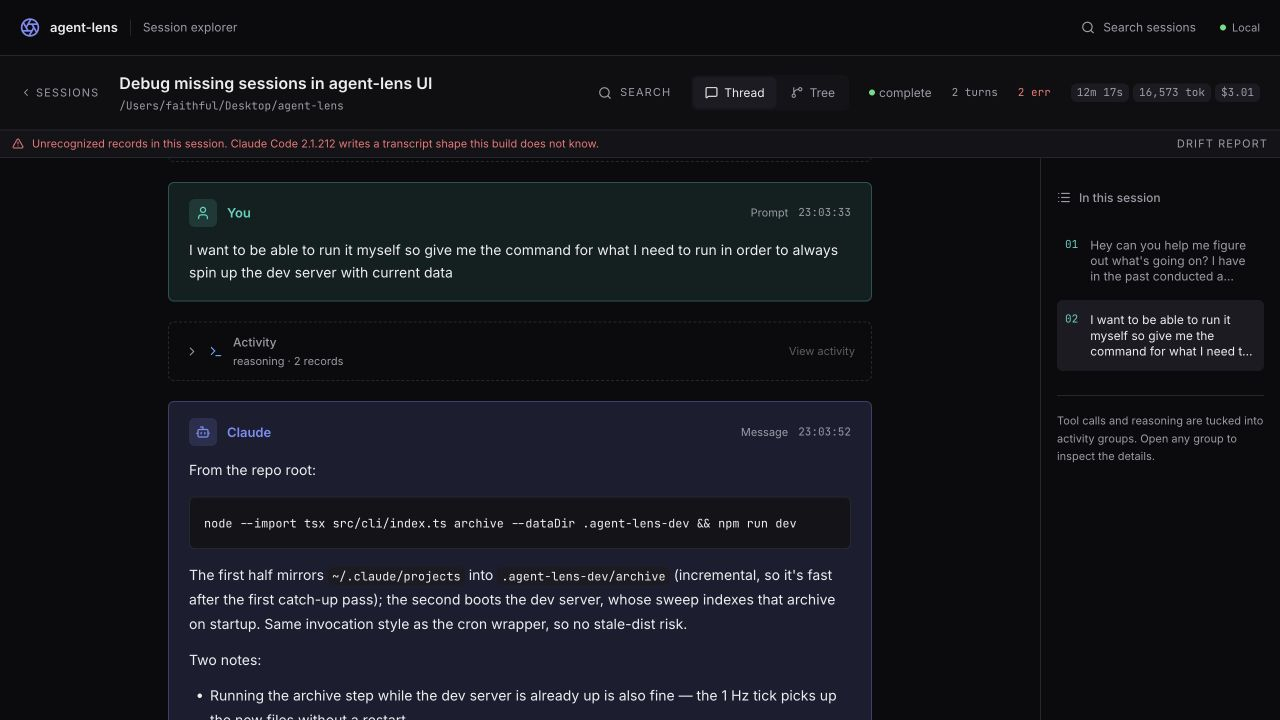
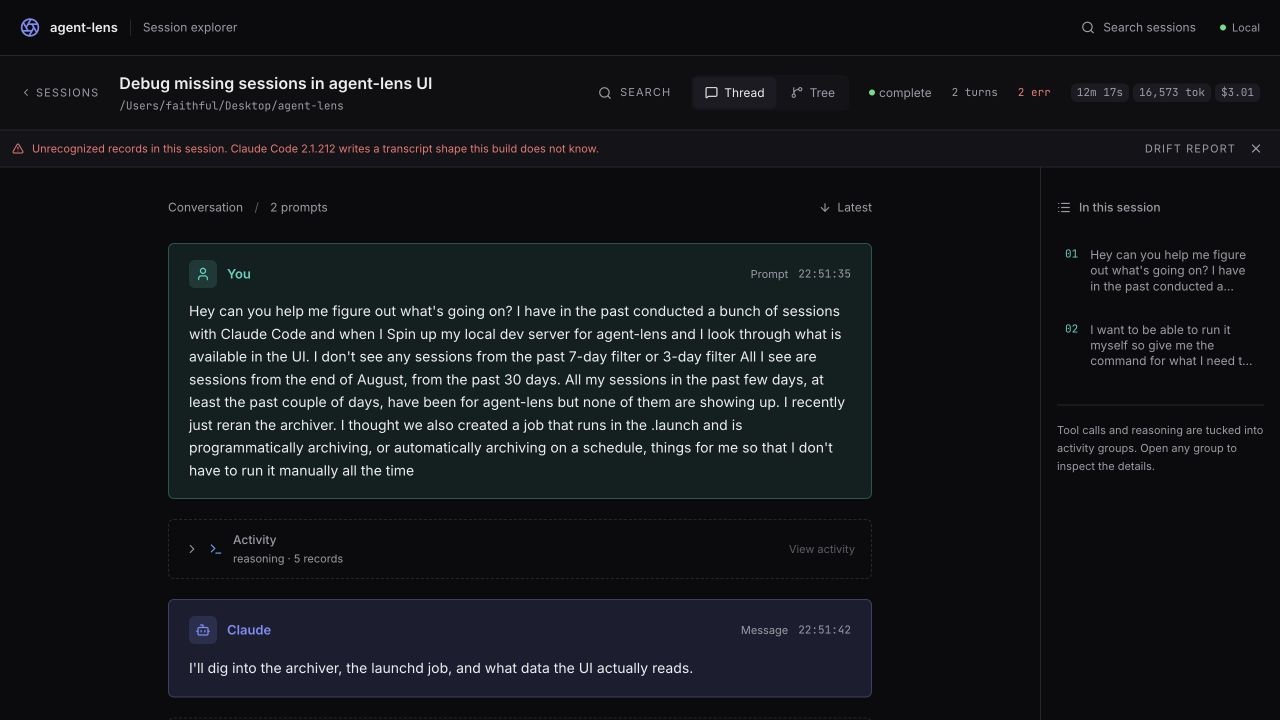
feat(ui): let users dismiss session notices until reload

diff --git a/ui/src/components/session/__tests__/drift-banner.test.tsx b/ui/src/components/session/__tests__/drift-banner.test.tsx
@@ -11,9 +11,12 @@ import { DriftBanner } from '../DriftBanner';
 
 describe('the drift banner raises on the row it is given (AC2)', () => {
   it('carries the slot the render gate drives, the copy, and the link to the aggregate', () => {
-    const markup = renderToStaticMarkup(<DriftBanner hasDrift harnessVersion="2.2.0" />);
+    const markup = renderToStaticMarkup(
+      <DriftBanner sessionId="session-a" hasDrift harnessVersion="2.2.0" />,
+    );
 
     expect(markup).toContain('data-slot="drift-banner"');
+    expect(markup).toContain('aria-label="Dismiss unrecognized records notice"');
     expect(markup, 'louder than the truncation strip next door').toContain('role="alert"');
     expect(markup).toContain('Unrecognized records in this session.');
     expect(markup, 'the culprit release is the whole point of the alarm').toContain('2.2.0');
@@ -23,7 +26,9 @@ describe('the drift banner raises on the row it is given (AC2)', () => {
   });
 
   it('links to the aggregate even when the transcript named no version', () => {
-    const markup = renderToStaticMarkup(<DriftBanner hasDrift harnessVersion={null} />);
+    const markup = renderToStaticMarkup(
+      <DriftBanner sessionId="session-a" hasDrift harnessVersion={null} />,
+    );
     expect(markup).toContain('href="/api/drift"');
     expect(markup).not.toContain('null');
   });
@@ -34,9 +39,15 @@ describe('the drift banner is silent on a clean session (AC3)', () => {
     // Total, on `components.test.tsx:105-112`'s shape: an empty string is the
     // only reading that proves no strip was drawn. A "does not contain the
     // copy" assertion would pass over an empty bordered box.
-    expect(renderToStaticMarkup(<DriftBanner hasDrift={false} harnessVersion="2.1.212" />)).toBe(
-      '',
-    );
-    expect(renderToStaticMarkup(<DriftBanner hasDrift={false} harnessVersion={null} />)).toBe('');
+    expect(
+      renderToStaticMarkup(
+        <DriftBanner sessionId="session-a" hasDrift={false} harnessVersion="2.1.212" />,
+      ),
+    ).toBe('');
+    expect(
+      renderToStaticMarkup(
+        <DriftBanner sessionId="session-a" hasDrift={false} harnessVersion={null} />,
+      ),
+    ).toBe('');
   });
 });

diff --git a/ui/src/components/session/__tests__/session-list.test.tsx b/ui/src/components/session/__tests__/session-list.test.tsx
@@ -224,7 +224,7 @@ describe('SessionListView renders a large page correctly (Test 5)', () => {
 describe('the unpriced strip raises and clears with the rows themselves', () => {
   it('draws nothing at all when every row on screen has a price', () => {
     /*
-     * ★ NO STORED STATE AND NO DISMISSAL — plan 001 built a banner around
+     * ★ PRICING ELIGIBILITY FOLLOWS THE DATA — plan 001 built a banner around
      * stored state twice and twice the raise could not be falsified by the
      * clear. Here the raise IS the data: price the model and the next response
      * carries numbers, so this strip goes on its own with nothing to clear.
@@ -240,12 +240,11 @@ describe('the unpriced strip raises and clears with the rows themselves', () => 
     expect(markupOf([makeSessionRow({ est_cost: 0 })])).not.toContain('unpriced-notice');
   });
 
-  it('is announced as a status, and carries no control to dismiss it', () => {
+  it('is announced as a status and offers an accessible dismissal button', () => {
     const markup = markupOf([makeSessionRow({ est_cost: null })]);
     expect(markup).toContain('role="status"');
-    expect(markup.match(/<button/g) ?? [], 'the two sort controls, and nothing new').toHaveLength(
-      SORT_COLUMNS.length,
-    );
+    expect(markup).toContain('aria-label="Dismiss cost notice"');
+    expect(markup.match(/<button/g) ?? []).toHaveLength(SORT_COLUMNS.length + 1);
   });
 });
 

diff --git a/ui/src/components/session/SessionListView.tsx b/ui/src/components/session/SessionListView.tsx
@@ -1,5 +1,6 @@
-import { ChevronDown, ChevronUp, Info } from 'lucide-react';
+import { ChevronDown, ChevronUp, Info, X } from 'lucide-react';
 
+import { useNoticeDismissal } from '@/lib/use-notice-dismissal';
 import { cn } from '@/lib/utils';
 import { hrefFor } from '@/lib/route-match';
 import {
@@ -55,10 +56,11 @@ export function SessionListView({
   pageTruncated = false,
 }: SessionListViewProps) {
   const unpriced = unpricedNotice(rows, pageTruncated);
+  const { dismissed, dismiss } = useNoticeDismissal('cost-unknown');
 
   return (
     <div data-slot="session-list" className="overflow-hidden rounded-md border border-border">
-      {unpriced === null ? null : (
+      {unpriced === null || dismissed ? null : (
         <div
           data-slot="unpriced-notice"
           role="status"
@@ -66,6 +68,15 @@ export function SessionListView({
         >
           <Info size={12} aria-hidden="true" className="shrink-0" />
           <span className="min-w-0">{unpriced}</span>
+          <button
+            type="button"
+            aria-label="Dismiss cost notice"
+            title="Dismiss until reload"
+            onClick={dismiss}
+            className="ml-auto flex size-6 shrink-0 items-center justify-center rounded-md text-muted hover:bg-surface-raised hover:text-foreground"
+          >
+            <X size={14} aria-hidden="true" />
+          </button>
         </div>
       )}
 

diff --git a/ui/src/components/session/DriftBanner.tsx b/ui/src/components/session/DriftBanner.tsx
@@ -1,5 +1,6 @@
-import { TriangleAlert } from 'lucide-react';
+import { TriangleAlert, X } from 'lucide-react';
 
+import { useNoticeDismissal } from '@/lib/use-notice-dismissal';
 import { driftNotice, type DriftFacts } from '@/lib/session-data';
 
 /*
@@ -25,11 +26,12 @@ import { driftNotice, type DriftFacts } from '@/lib/session-data';
  * same rule: copy in a pure function is copy a test can pin.
  */
 
-export type DriftBannerProps = DriftFacts;
+export type DriftBannerProps = DriftFacts & { sessionId: string };
 
 export function DriftBanner(facts: DriftBannerProps) {
   const notice = driftNotice(facts);
-  if (notice === null) return null;
+  const { dismissed, dismiss } = useNoticeDismissal(`drift:${facts.sessionId}`);
+  if (notice === null || dismissed) return null;
 
   return (
     <div
@@ -45,6 +47,15 @@ export function DriftBanner(facts: DriftBannerProps) {
       >
         Drift report
       </a>
+      <button
+        type="button"
+        aria-label="Dismiss unrecognized records notice"
+        title="Dismiss until reload"
+        onClick={dismiss}
+        className="flex size-6 shrink-0 items-center justify-center rounded-md text-muted hover:bg-surface-raised hover:text-foreground"
+      >
+        <X size={14} aria-hidden="true" />
+      </button>
     </div>
   );
 }

diff --git a/ui/src/lib/session-list.ts b/ui/src/lib/session-list.ts
@@ -62,14 +62,11 @@ export function formatRowCount(showing: number, pageTruncated: boolean): string 
  * and the sentence stays true.
  *
  * ===========================================================================
- * ★ NO STORED STATE AND NO DISMISSAL. THE RAISE IS THE DATA.
+ * NOTICE ELIGIBILITY FOLLOWS THE DATA.
  * ===========================================================================
- * Task 7.3's rule, for the reason plan 001 learned twice: a strip whose raise
- * depends on stored, monotonic state has a downward path nobody proved. Price
- * the model and the next response carries numbers, so this returns `null` and
- * the strip goes on its own. There is nothing to clear, so no clear can be
- * outlived. A list that can price everything says nothing at all, because a
- * permanent notice trains the reader straight past it.
+ * Pricing every model shown clears the notice automatically. The UI also
+ * allows dismissal for the current app run without changing these facts or
+ * hiding the individual unknown-cost labels.
  *
  * The rows counted are the rows `costUnknownLabel` marks, called rather than
  * re-implemented: a second copy of the predicate could drift, and then the

diff --git a/ui/src/lib/__tests__/notice-dismissals.test.ts b/ui/src/lib/__tests__/notice-dismissals.test.ts
@@ -1,0 +1,29 @@
+import { describe, expect, it } from 'vitest';
+import { createNoticeDismissals } from '../use-notice-dismissal';
+
+describe('notice dismissal for one app run', () => {
+  it('keeps notices hidden when revisited and scopes drift notices per session', () => {
+    const notices = createNoticeDismissals();
+    notices.dismiss('cost-unknown');
+    notices.dismiss('drift:session-a');
+    expect(notices.isDismissed('cost-unknown')).toBe(true);
+    expect(notices.isDismissed('drift:session-a')).toBe(true);
+    expect(notices.isDismissed('drift:session-b')).toBe(false);
+    expect(createNoticeDismissals().isDismissed('cost-unknown')).toBe(false);
+    expect(createNoticeDismissals().isDismissed('drift:session-a')).toBe(false);
+  });
+
+  it('notifies mounted notices once per dismissal and unsubscribes on unmount', () => {
+    const notices = createNoticeDismissals();
+    let changes = 0;
+    const unsubscribe = notices.subscribe(() => {
+      changes += 1;
+    });
+    notices.dismiss('cost-unknown');
+    notices.dismiss('cost-unknown');
+    expect(changes).toBe(1);
+    unsubscribe();
+    notices.dismiss('drift:session-a');
+    expect(changes).toBe(1);
+  });
+});

diff --git a/ui/src/lib/use-notice-dismissal.ts b/ui/src/lib/use-notice-dismissal.ts
@@ -1,0 +1,32 @@
+import { useSyncExternalStore } from 'react';
+
+/** In-memory only: navigating keeps dismissals; reloading starts a fresh run. */
+export function createNoticeDismissals() {
+  const dismissed = new Set<string>();
+  const listeners = new Set<() => void>();
+  return {
+    isDismissed: (key: string) => dismissed.has(key),
+    dismiss(key: string) {
+      if (dismissed.has(key)) return;
+      dismissed.add(key);
+      for (const listener of listeners) listener();
+    },
+    subscribe(listener: () => void) {
+      listeners.add(listener);
+      return () => {
+        listeners.delete(listener);
+      };
+    },
+  };
+}
+
+const notices = createNoticeDismissals();
+
+export function useNoticeDismissal(key: string) {
+  const dismissed = useSyncExternalStore(
+    notices.subscribe,
+    () => notices.isDismissed(key),
+    () => false,
+  );
+  return { dismissed, dismiss: () => notices.dismiss(key) };
+}

diff --git a/ui/src/pages/SessionView.tsx b/ui/src/pages/SessionView.tsx
@@ -491,6 +491,7 @@ export function SessionView({ sessionId, api, bus, revealSeq }: SessionViewProps
       )}
       {data === null ? null : (
         <DriftBanner
+          sessionId={sessionId}
           hasDrift={data.session.has_drift}
           harnessVersion={data.session.harness_version}
         />
